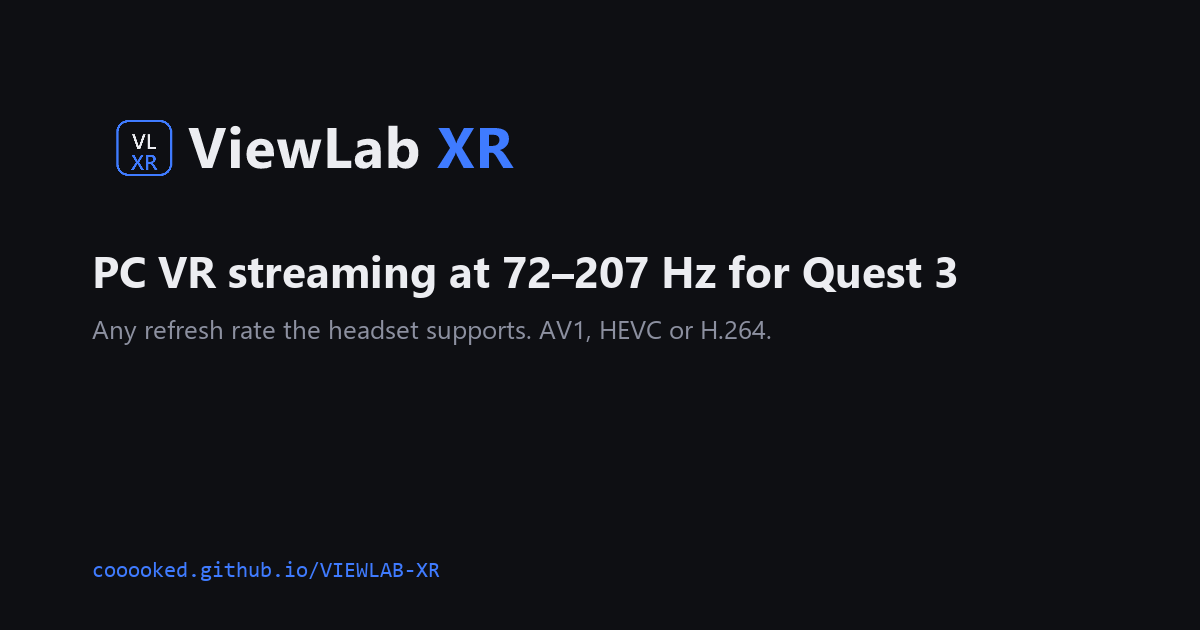
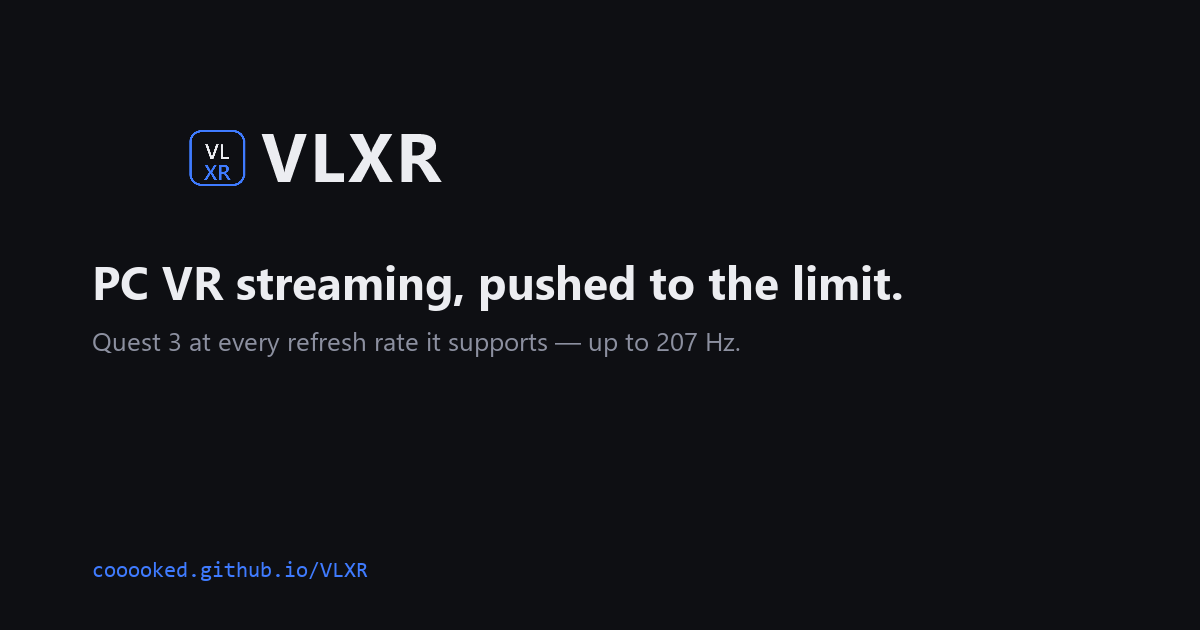
VLXR teaser: cinematic hero, stream bench, coming-soon; VLXR wordmark brand

Changed region(s): [[0.0617, 0.3921, 0.8017, 0.573], [0.0925, 0.181, 0.4317, 0.3016], [0.2775, 0.8746, 0.37, 0.9349]]

diff --git a/index.html b/index.html
@@ -3,35 +3,36 @@
 <head>
 <meta charset="utf-8">
 <meta name="viewport" content="width=device-width, initial-scale=1">
-<title>ViewLab XR (VLXR) — PC VR streaming at 72–207 Hz for Quest 3</title>
-<meta name="description" content="VLXR is a PC VR runtime and streamer that drives a Meta Quest 3 at any refresh rate it supports — up to 207 Hz — with AV1, HEVC or H.264, live tuning from a Streamer app, and an in-headset menu.">
+<title>VLXR — PC VR streaming, pushed to the limit</title>
+<meta name="description" content="VLXR is a closed-source PC VR runtime and streamer for Meta Quest 3, built to drive every refresh rate the headset supports — up to 207 Hz — with precise frame pacing and live in-headset control. Coming soon.">
 <meta property="og:type" content="website">
-<meta property="og:title" content="ViewLab XR — PC VR streaming at 72–207 Hz">
-<meta property="og:description" content="Any refresh rate the headset supports. Real codecs. Live controls. VLXR for Quest 3 on Windows.">
-<meta property="og:url" content="https://cooooked.github.io/VIEWLAB-XR/">
-<meta property="og:image" content="https://cooooked.github.io/VIEWLAB-XR/assets/img/og-card.png">
+<meta property="og:title" content="VLXR — PC VR streaming, pushed to the limit">
+<meta property="og:description" content="Quest 3 PC VR streaming at 72–207 Hz. Closed source. Coming soon.">
+<meta property="og:url" content="https://cooooked.github.io/VLXR/">
+<meta property="og:image" content="https://cooooked.github.io/VLXR/assets/img/og-card.png">
 <meta name="theme-color" content="#0E0F13">
 <link rel="icon" href="assets/img/favicon.svg" type="image/svg+xml">
 <link rel="icon" href="assets/img/favicon-32.png" sizes="32x32" type="image/png">
 <link rel="apple-touch-icon" href="assets/img/favicon-180.png">
 <link rel="stylesheet" href="assets/css/style.css">
+<link rel="preconnect" href="https://fonts.googleapis.com">
+<link rel="preconnect" href="https://fonts.gstatic.com" crossorigin>
+<link href="https://fonts.googleapis.com/css2?family=Space+Grotesk:wght@400;500;600;700&family=IBM+Plex+Mono:wght@400;500;600&display=swap" rel="stylesheet">
 </head>
 <body>
 <a class="skip-link" href="#main">Skip to content</a>
 
 <header class="site-nav" id="top">
   <div class="nav-inner">
-    <a class="brand" href="#top" aria-label="ViewLab XR home">
-      <img class="brand-logo" src="assets/img/viewlab-xr-logo.svg" alt="ViewLab XR">
+    <a class="brand" href="#top" aria-label="VLXR home">
+      <img class="brand-logo" src="assets/img/vlxr-logo.svg" alt="VLXR">
     </a>
     <nav class="nav-links" aria-label="Sections">
       <a href="#bench">The bench</a>
-      <a href="#refresh">Refresh rates</a>
-      <a href="#streamer">Streamer</a>
-      <a href="#headset">In the headset</a>
-      <a href="#status">Status</a>
+      <a href="#promise">The promise</a>
+      <a href="#soon">Coming soon</a>
     </nav>
-    <a class="btn btn-ghost nav-cta" href="https://github.com/Cooooked/VLXR" rel="noopener">GitHub</a>
+    <a class="btn btn-ghost nav-cta" href="#soon">Notify me</a>
   </div>
 </header>
 
@@ -40,23 +41,26 @@
   <!-- ============ HERO ============ -->
   <section class="hero">
     <div class="hero-glow" aria-hidden="true"></div>
+    <div class="hero-grid" aria-hidden="true"></div>
+    <div class="hero-scan" aria-hidden="true"></div>
     <div class="hero-inner">
-      <img class="hero-logo" src="assets/img/viewlab-xr-logo-450x76.png" alt="ViewLab XR" width="450" height="76">
-      <p class="hero-tag">PC VR streaming at 72–207 Hz. Your headset's full rate, not a cap.</p>
+      <img class="hero-logo" src="assets/img/vlxr-logo-450x76.png" alt="VLXR" width="450" height="76">
+      <h1 class="hero-tag">Every frame. Every rate.</h1>
+      <p class="hero-hz">72 — 207 Hz</p>
       <p class="hero-sub">
-        VLXR — ViewLab XR — is a PC VR runtime and streamer for Meta Quest 3. It drives your
-        VR games at any refresh rate the headset supports, encodes with the hardware
-        encoder, and gives you live control from a Streamer app and an in-headset menu.
+        VLXR is a closed-source runtime and streamer for Meta Quest 3 on Windows.
+        It drives your VR games at every refresh rate the headset supports —
+        up to 207 Hz — and holds the frame budget while it does it.
       </p>
       <div class="hero-actions">
-        <a class="btn btn-primary" href="#bench">Try the stream bench</a>
-        <a class="btn btn-ghost" href="https://github.com/Cooooked/VLXR" rel="noopener">View on GitHub</a>
+        <a class="btn btn-primary" href="#bench">Feel the difference</a>
+        <a class="btn btn-ghost" href="#soon">Coming soon</a>
       </div>
       <ul class="hero-facts" aria-label="Key facts">
         <li>Quest 3 · Windows</li>
         <li>72–207 Hz</li>
-        <li>AV1 · HEVC · H.264</li>
-        <li>Live tuning in-game</li>
+        <li>Closed source</li>
+        <li>In-headset control</li>
       </ul>
     </div>
   </section>
@@ -67,10 +71,10 @@
       <p class="kicker">Interactive</p>
       <h2>The stream bench</h2>
       <p class="lede">
-        A working model of VLXR's core trade-off: every refresh rate has a frame-time budget,
-        and codec, resolution and buffering decide whether you hold it. Drag the controls and
-        watch the pacing graph — green means inside budget, red is a missed frame. It is an
-        illustration of the real controls, not a screenshot of the app.
+        Every refresh rate has a frame-time budget — 6.9 ms at 144 Hz, 4.8 ms at 207 Hz.
+        Codec, resolution and buffering decide whether you hold it. This bench models
+        that trade-off the way VLXR's streamer exposes it: drag the controls and watch
+        the pacing graph. Illustration, not a screenshot.
       </p>
     </div>
 
@@ -135,89 +139,49 @@
     </div>
   </section>
 
-  <!-- ============ REFRESH ============ -->
-  <section class="section" id="refresh">
+  <!-- ============ PROMISE ============ -->
+  <section class="section" id="promise">
     <div class="section-head">
-      <p class="kicker">The headline</p>
-      <h2>Every refresh rate the headset supports</h2>
+      <p class="kicker">What it does</p>
+      <h2>Built for the frame budget</h2>
       <p class="lede">
-        Quest 3 panels top out at 144 Hz through most PC VR stacks. VLXR streams at whatever
-        the headset is set to — 72 through 207 Hz, with 240 experimental — and paces frames
-        to hit it, measured second by second.
+        VLXR exists because high refresh rates live or die on pacing — a dropped frame
+        at 200 Hz is felt twice as hard as at 100. It's tuned end to end for that,
+        and controlled where you actually need it: on the PC, and inside the headset
+        without taking it off.
       </p>
     </div>
     <div class="card-grid cols-3">
-      <article class="card"><h3>72–207 Hz, selectable</h3><p>Pick the rate in the Streamer app or double-tap the menu button in-headset — the stream re-rates without relaunching the game.</p></article>
-      <article class="card"><h3>Precise frame pacing</h3><p>One-frame buffering and per-second stats keep frame times inside the budget for the chosen rate — the difference between smooth and almost-smooth at 200 Hz.</p></article>
-      <article class="card"><h3>Honest numbers</h3><p>Per-second stats.csv and live readouts for fps, latency, encode, network and decode — measured on real hardware, published with the caveats.</p></article>
+      <article class="card"><h3>Every rate, held</h3><p>72 through 207 Hz, selectable live — the stream re-rates without relaunching the game.</p></article>
+      <article class="card"><h3>Control mid-game</h3><p>Codec, refresh rate, bitrate and buffering adjust on a running stream, from the PC or an in-headset menu.</p></article>
+      <article class="card"><h3>Honest telemetry</h3><p>fps, latency, encode, network and decode — measured per second and shown where you can see it.</p></article>
     </div>
   </section>
 
-  <!-- ============ STREAMER ============ -->
-  <section class="section" id="streamer">
-    <div class="section-head">
-      <p class="kicker">On the PC</p>
-      <h2>The Streamer app</h2>
-      <p class="lede">
-        A familiar Streamer window: codec, refresh rate, bitrate, resolution,
-        video buffering, headset connection and game launch — with live stats, and changes
-        that apply while the game is running.
+  <!-- ============ COMING SOON ============ -->
+  <section class="section soon" id="soon">
+    <div class="soon-card">
+      <p class="kicker">Status</p>
+      <h2>Coming soon</h2>
+      <p>
+        VLXR is in late development on real hardware. This page is the public face of
+        the project — the application itself is closed source and not yet available.
       </p>
-    </div>
-    <div class="card-grid cols-3">
-      <article class="card"><h3>Live controls</h3><p>Codec, refresh rate, bitrate, resolution percentage and video buffering — all applied to a running stream, not just at launch.</p></article>
-      <article class="card"><h3>Game launch &amp; list</h3><p>Launch VR titles straight from the Streamer; only games started there use VLXR — your normal runtime stays the default.</p></article>
-      <article class="card"><h3>Performance panel</h3><p>fps, latency, encode, network and decode breakdown plus bitrate — on the PC and mirrored in-headset.</p></article>
-    </div>
-  </section>
-
-  <!-- ============ HEADSET ============ -->
-  <section class="section" id="headset">
-    <div class="section-head">
-      <p class="kicker">In the headset</p>
-      <h2>Control without taking the headset off</h2>
-      <p class="lede">
-        Double-tap the menu button for an in-headset menu — change refresh rate and bitrate
-        mid-game. Both thumbsticks summon the performance panel; right stick plus A captures
-        a screenshot with stats.
-      </p>
-    </div>
-    <div class="card-grid cols-3">
-      <article class="card"><h3>In-headset menu</h3><p>Refresh rate and bitrate controls rendered inside VR — no dashboard dive mid-race.</p></article>
-      <article class="card"><h3>Performance panel</h3><p>fps, latency, encode/network/decode timings and bitrate, summoned with both thumbsticks.</p></article>
-      <article class="card"><h3>Screenshots + stats</h3><p>Left-eye stream capture with the stats panel, plus a stats sidecar — proof of what the encoder saw.</p></article>
-    </div>
-  </section>
-
-  <!-- ============ STATUS ============ -->
-  <section class="section" id="status">
-    <div class="section-head">
-      <p class="kicker">Honest status</p>
-      <h2>Early, measured, one setup</h2>
-      <p class="lede">
-        VLXR is early software tested on a single configuration — RX 9070 XT, Quest 3 on a
-        wired LAN adapter. Measured results are published with their conditions rather than
-        benchmarks marketing can't support. It needs an a capable GPU (hardware encoder),
-        Windows 10/11, a Quest 3 in developer mode and a solid local network.
-      </p>
-    </div>
-    <div class="card-grid cols-2">
-      <article class="card"><h3>Measured</h3><p>180 Hz held 180 fps headset-side; 207 Hz held 207 fps every second with ~25–30 ms total latency on the test rig.</p></article>
-      <article class="card"><h3>Requirements</h3><p>a capable GPU, Windows 10/11, Meta Quest 3 developer mode with the VLXR client, Wi-Fi 6/6E or USB-C Ethernet on the headset.</p></article>
+      <div class="soon-actions">
+        <a class="btn btn-primary" href="https://github.com/Cooooked/VLXR" rel="noopener">Follow the project</a>
+      </div>
     </div>
   </section>
 
   <!-- ============ FOOTER ============ -->
   <footer class="site-footer">
     <div class="footer-inner">
-      <img src="assets/img/viewlab-xr-logo-450x76.png" alt="ViewLab XR" width="225" height="38">
-      <p class="footer-tag">ViewLab XR — PC VR streaming at 72–207 Hz for Quest 3.</p>
+      <img src="assets/img/vlxr-logo-450x76.png" alt="VLXR" width="225" height="38">
+      <p class="footer-tag">VLXR — PC VR streaming, pushed to the limit.</p>
       <nav class="footer-links" aria-label="Footer">
-        <a href="https://github.com/Cooooked/VLXR" rel="noopener">Source &amp; releases</a>
-        <a href="https://github.com/Cooooked/VLXR/blob/main/README.md" rel="noopener">Documentation</a>
-        <a href="https://github.com/Cooooked/VLXR/blob/main/DEVLOG.md" rel="noopener">Devlog</a>
+        <a href="https://github.com/Cooooked/VLXR" rel="noopener">Project page</a>
       </nav>
-      <p class="footer-note">VLXR is early software in active development, tested on one PC and one headset. Figures on this page are measured on that setup; the stream bench is an illustrative simulation of real controls.</p>
+      <p class="footer-note">VLXR is closed-source software in development. This site is a teaser — it describes what the product aims to do, not how it works.</p>
     </div>
   </footer>
 

diff --git a/assets/css/style.css b/assets/css/style.css
@@ -1,4 +1,4 @@
-/* ViewLab XR site — palette from the VLXR Streamer theme:
+/* VLXR site — palette from the VLXR Streamer theme:
    bg #0E0F13 · card #171920 · border #262933 · text #ECEDF1 ·
    muted #8C90A0 · accent #3F7BFF · good #3DD68C · warn #FFA629 */
 
@@ -20,8 +20,8 @@
   --bad: #FF5C5C;
   --radius: 8px;
   --radius-sm: 4px;
-  --font: "Segoe UI", system-ui, -apple-system, "Helvetica Neue", Arial, sans-serif;
-  --mono: "Cascadia Mono", Consolas, "Courier New", monospace;
+  --font: "Space Grotesk", "Segoe UI", system-ui, -apple-system, "Helvetica Neue", Arial, sans-serif;
+  --mono: "IBM Plex Mono", "Cascadia Mono", Consolas, "Courier New", monospace;
 }
 
 * { box-sizing: border-box; }
@@ -86,10 +86,15 @@ a { color: var(--text); }
 .hero-inner { position: relative; max-width: 860px; margin: 0 auto; }
 .hero-logo { width: min(460px, 86vw); margin-bottom: 30px; }
 .hero-tag {
-  font-size: clamp(22px, 3.4vw, 30px); font-weight: 600; letter-spacing: -0.01em;
-  margin: 0 0 16px;
+  font-family: var(--font); font-weight: 700; letter-spacing: -0.02em;
+  font-size: clamp(34px, 5.4vw, 58px); line-height: 1.04; margin: 0 0 6px;
 }
-.hero-sub { max-width: 640px; margin: 0 auto 30px; color: var(--muted); font-size: 17px; }
+.hero-hz {
+  font-family: var(--mono); font-weight: 500;
+  font-size: clamp(15px, 2vw, 19px); letter-spacing: 0.42em; color: var(--accent);
+  margin: 0 0 22px; text-transform: uppercase;
+}
+.hero-sub { max-width: 620px; margin: 0 auto 30px; color: var(--muted); font-size: 17px; }
 .hero-actions { display: flex; gap: 12px; justify-content: center; flex-wrap: wrap; margin-bottom: 34px; }
 .hero-facts {
   list-style: none; display: flex; gap: 10px 26px; justify-content: center; flex-wrap: wrap;
@@ -237,3 +242,56 @@ input[type="range"]:focus-visible { outline: 2px solid var(--accent); outline-of
   html { scroll-behavior: auto; }
   * { transition: none !important; }
 }
+
+/* ---------- teaser extras ---------- */
+.hero-scan {
+  position: absolute; left: 0; right: 0; top: 0; height: 220px;
+  background: linear-gradient(to bottom, rgba(63,123,255,0.05), transparent);
+  pointer-events: none;
+}
+.soon { padding-bottom: 40px; }
+.soon-card {
+  max-width: 640px; margin: 0 auto; text-align: center;
+  background: var(--panel); border: 1px solid var(--border-strong);
+  border-radius: 12px; padding: 48px 36px 44px; position: relative; overflow: hidden;
+}
+.soon-card::before {
+  content: ""; position: absolute; inset: 0 0 auto; height: 3px;
+  background: linear-gradient(90deg, transparent, var(--accent), var(--good), transparent);
+}
+.soon-card h2 { font-size: clamp(30px, 4vw, 42px); margin: 6px 0 14px; letter-spacing: -0.02em; }
+.soon-card p { color: var(--muted); margin: 0 auto 26px; max-width: 46ch; }
+.soon-actions { display: flex; gap: 12px; justify-content: center; flex-wrap: wrap; }
+
+/* ---------- cinematic layer ---------- */
+.hero { padding-bottom: 130px; }
+.hero-grid {
+  position: absolute; left: -20%; right: -20%; bottom: -40px; height: 340px;
+  background-image:
+    linear-gradient(rgba(63,123,255,0.14) 1px, transparent 1px),
+    linear-gradient(90deg, rgba(63,123,255,0.14) 1px, transparent 1px);
+  background-size: 56px 56px;
+  transform: perspective(520px) rotateX(62deg);
+  transform-origin: top center;
+  -webkit-mask-image: linear-gradient(to bottom, transparent, #000 30%, #000 75%, transparent);
+  mask-image: linear-gradient(to bottom, transparent, #000 30%, #000 75%, transparent);
+  pointer-events: none;
+}
+.hero-inner { z-index: 1; }
+
+/* scroll reveal */
+.reveal { opacity: 0; transform: translateY(22px); transition: opacity .7s ease, transform .7s ease; }
+.reveal.in { opacity: 1; transform: none; }
+@media (prefers-reduced-motion: reduce) {
+  .reveal { opacity: 1; transform: none; transition: none; }
+}
+
+/* hero entrance */
+.hero-logo { animation: heroIn .9s cubic-bezier(.2,.7,.2,1) both; }
+.hero-tag { animation: heroIn .9s .12s cubic-bezier(.2,.7,.2,1) both; }
+.hero-hz { animation: heroIn .9s .22s cubic-bezier(.2,.7,.2,1) both; }
+.hero-sub { animation: heroIn .9s .32s cubic-bezier(.2,.7,.2,1) both; }
+.hero-actions { animation: heroIn .9s .42s cubic-bezier(.2,.7,.2,1) both; }
+.hero-facts { animation: heroIn .9s .52s cubic-bezier(.2,.7,.2,1) both; }
+@keyframes heroIn { from { opacity: 0; transform: translateY(18px); } to { opacity: 1; transform: none; } }
+@media (prefers-reduced-motion: reduce) { .hero-logo,.hero-tag,.hero-hz,.hero-sub,.hero-actions,.hero-facts { animation: none; } }

diff --git a/assets/js/app.js b/assets/js/app.js
@@ -217,5 +217,17 @@
   }
 
   bind();
+
+  /* scroll reveal */
+  var revealEls = document.querySelectorAll(".section-head, .card, .bench-grid, .soon-card");
+  if ("IntersectionObserver" in window && !reduced) {
+    var io = new IntersectionObserver(function (entries) {
+      entries.forEach(function (en) {
+        if (en.isIntersecting) { en.target.classList.add("in"); io.unobserve(en.target); }
+      });
+    }, { threshold: 0.12 });
+    revealEls.forEach(function (el) { el.classList.add("reveal"); io.observe(el); });
+  }
+
   requestAnimationFrame(frame);
 })();

diff --git a/brand/make_logo.py b/brand/make_logo.py
@@ -1,6 +1,6 @@
 #!/usr/bin/env python3
-"""ViewLab XR (VLXR) logo — mark is the real app icon (vlxr.ico), wordmark is
-"ViewLab XR" in Segoe UI Semibold outlines (fontTools), "XR" in accent blue.
+"""VLXR (VLXR) logo — mark is the real app icon (vlxr.ico), wordmark is
+"VLXR" in Segoe UI Semibold outlines (fontTools), "XR" in accent blue.
 Emits SVG masters + transparent PNGs at 450x76 / 225x38 / 113x19 + favicon."""
 import base64
 import io
@@ -40,13 +40,13 @@ DISP_W = DISP_H * ICON_W / ICON_H
 ICON_X = 12.0
 ICON_Y = (76 - DISP_H) / 2
 
-# ---- wordmark: "ViewLab" ink + " XR" accent ----
-PARTS_TEXT = [("ViewLab", INK), (" XR", ACCENT)]
-TRACK = 1.0
+# ---- wordmark: "VLXR" ----
+PARTS_TEXT = [("VLXR", INK)]
+TRACK = 3.0
 bp = BoundsPen(glyphs)
 glyphs[cmap[ord("V")]].draw(bp)
 cap_h = bp.bounds[3] - bp.bounds[1]
-SCALE = 40.0 / cap_h
+SCALE = 48.0 / cap_h
 CAP_PX = cap_h * SCALE
 BASELINE_Y = (76 + CAP_PX) / 2
 
@@ -112,17 +112,17 @@ def emit(prefix):
         print(prefix, suf, im.size)
 
 
-emit("viewlab-xr-logo")
+emit("vlxr-logo")
 # dark variant: swap ink colour for light-background use (XR stays accent blue)
 svg_dark = logo_svg().replace(f'fill="{INK}"', f'fill="{INK_DARK}"')
-with open(f"{OUT}/viewlab-xr-logo-dark.svg", "w", encoding="utf-8") as f:
+with open(f"{OUT}/vlxr-logo-dark.svg", "w", encoding="utf-8") as f:
     f.write(svg_dark)
 for w, h, suf in [(450, 76, "450x76"), (225, 38, "225x38"), (113, 19, "113x19")]:
     png = resvg_py.svg_to_bytes(svg_dark, width=w, height=h)
     im = Image.open(io.BytesIO(png)).convert("RGBA")
     if im.size != (w, h):
         im = im.crop((0, 0, w, h))
-    im.save(f"{OUT}/viewlab-xr-logo-dark-{suf}.png")
+    im.save(f"{OUT}/vlxr-logo-dark-{suf}.png")
     print("dark", suf, im.size)
 
 # favicon: icon on dark tile, aspect preserved

diff --git a/README.md b/README.md
@@ -1,0 +1,22 @@
+# VLXR
+
+**PC VR streaming, pushed to the limit.**
+
+VLXR is a closed-source runtime and streamer for Meta Quest 3 on Windows,
+built to drive every refresh rate the headset supports — up to 207 Hz —
+with precise frame pacing and live control from the PC and inside the
+headset.
+
+**Status: in development. Coming soon.**
+
+This repository hosts the public project page and brand assets only.
+The application itself is closed source and is not distributed here.
+
+## Website
+
+https://cooooked.github.io/VLXR/ — deployed via GitHub Pages from this repo.
+
+## Brand assets
+
+- `brand/` — logo masters: SVG, transparent PNGs at 450×76, 225×38 and 113×19,
+  favicon set, plus a dark-on-light variant. Generated by `brand/make_logo.py`.
